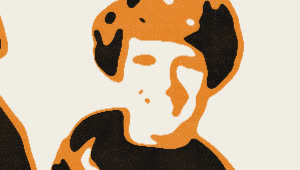
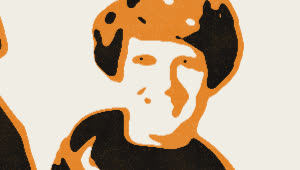
Imágenes › Serigrafía: la intensidad ajusta el nivel de detalle y no mezcla con la foto
Claude-Session: https://claude.ai/code/session_01VPHAR7jpTJpijXUd8K8hgP

diff --git a/plugin/js/image.js b/plugin/js/image.js
@@ -576,7 +576,7 @@
   // deja ver el papel entre colores.
   TECH.screen = function (im, p) {
     var w = im.w, h = im.h, S = im.S, n = im.n, i, k, inks = p.inks.slice();
-    var simp = S * (0.0012 + 0.006 * p.e);
+    var simp = S * (0.0005 + 0.0085 * Math.pow(p.e, 1.5));                // 0 %: mucho detalle · 200 %: manchas grandes
     var Yb = blur(im.Y, w, h, simp);
     // tintas ordenadas de clara a oscura; el papel es el nivel más claro
     var order = inks.map(function (c, j) { return j; }).sort(function (a, b) { return lum(inks[b]) - lum(inks[a]); });
@@ -730,6 +730,7 @@
     p.detail = (p.detail || 0) * (0.35 + 1.3 * e);
     p.contrast = (p.contrast || 0) + Math.max(0, e - 0.55) * (p.punch == null ? 0.5 : p.punch);
     p.keep = 0.92 * Math.pow(1 - smooth(0, 0.48, e), 1.3);
+    if (p.kind === 'screen') p.keep = 0;   // serigrafía: la intensidad es el nivel de detalle, nunca mezcla con la foto
     return p;
   }
 

diff --git a/CONTEXTO.md b/CONTEXTO.md
@@ -136,6 +136,7 @@ Todas las gotas salen del banco `plugin/drips`. El motor usa `prepareDrips`, `pi
 
 - Imágenes › Fotocopia punk: el umbral se compara con ruido de tóner (`tgrain`): blancos y negros nítidos, medios tonos en grano fino; nitidez fina antes del umbral.
 - Imágenes, regla del usuario: **el deslizador de intensidad NO debe cambiar el tamaño de la trama o del grano**, sino añadir textura. Por eso `lineK` vale 0,35 por defecto, el factor de `px` se ha reducido y `pressTexture()` se aplica por tinta en Cuatricromía y Duotono/Tritono.
+- Serigrafía póster: `keep = 0` (nunca mezcla con la foto); la intensidad es el nivel de detalle (`simp` de S·0,0005 a S·0,009).
 - Periódico (las tres variantes): `lineK 0.35`, así la intensidad cambia poco el tamaño del punto o de la línea. A cambio añade textura de rotativa que crece con `e`: tinta irregular, bandas, zonas sin tinta, traspaso del dorso, velo, motas con anillo y arañazos.
 - Copia de copia: `smear` (franjas movidas con estela horizontal) y `blots` (borrones grises).
 - Las tres fotocopias se diferencian así:
